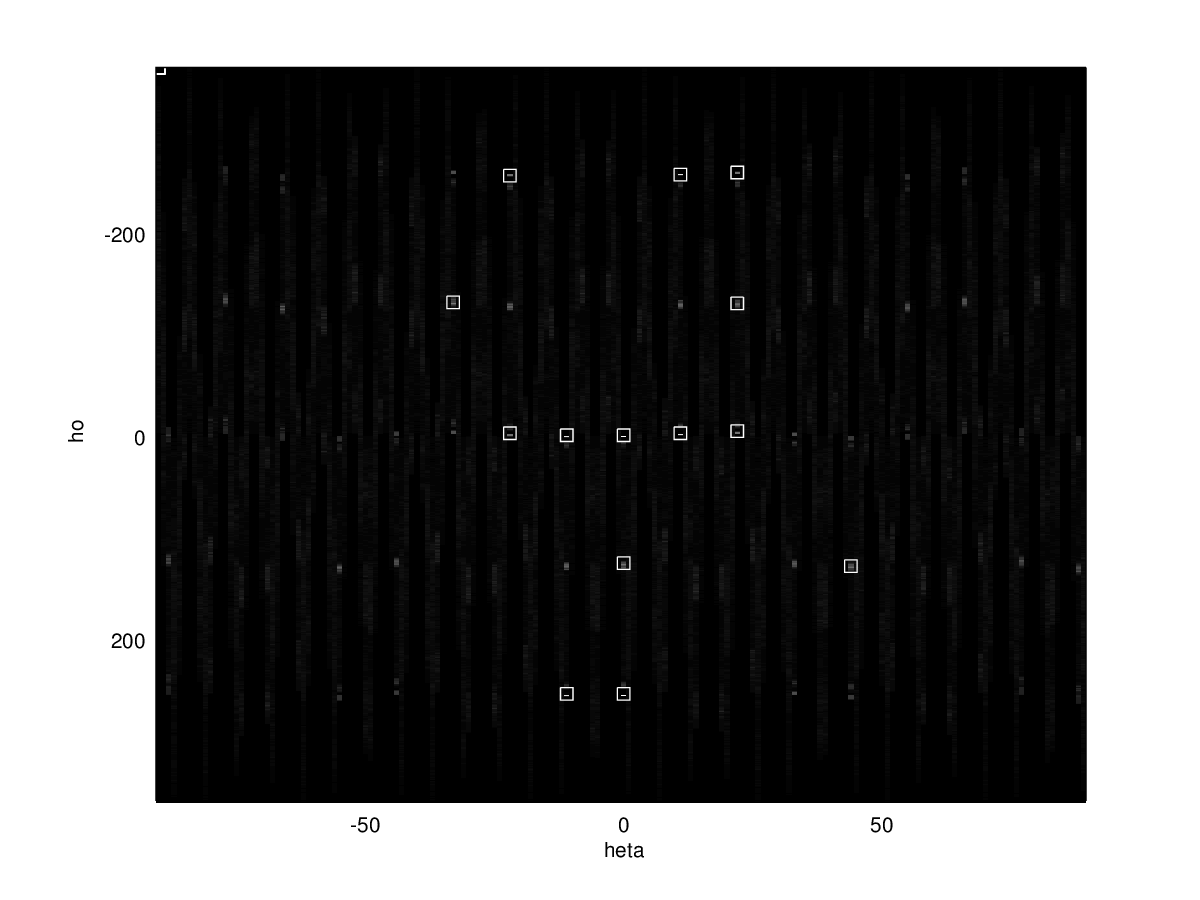
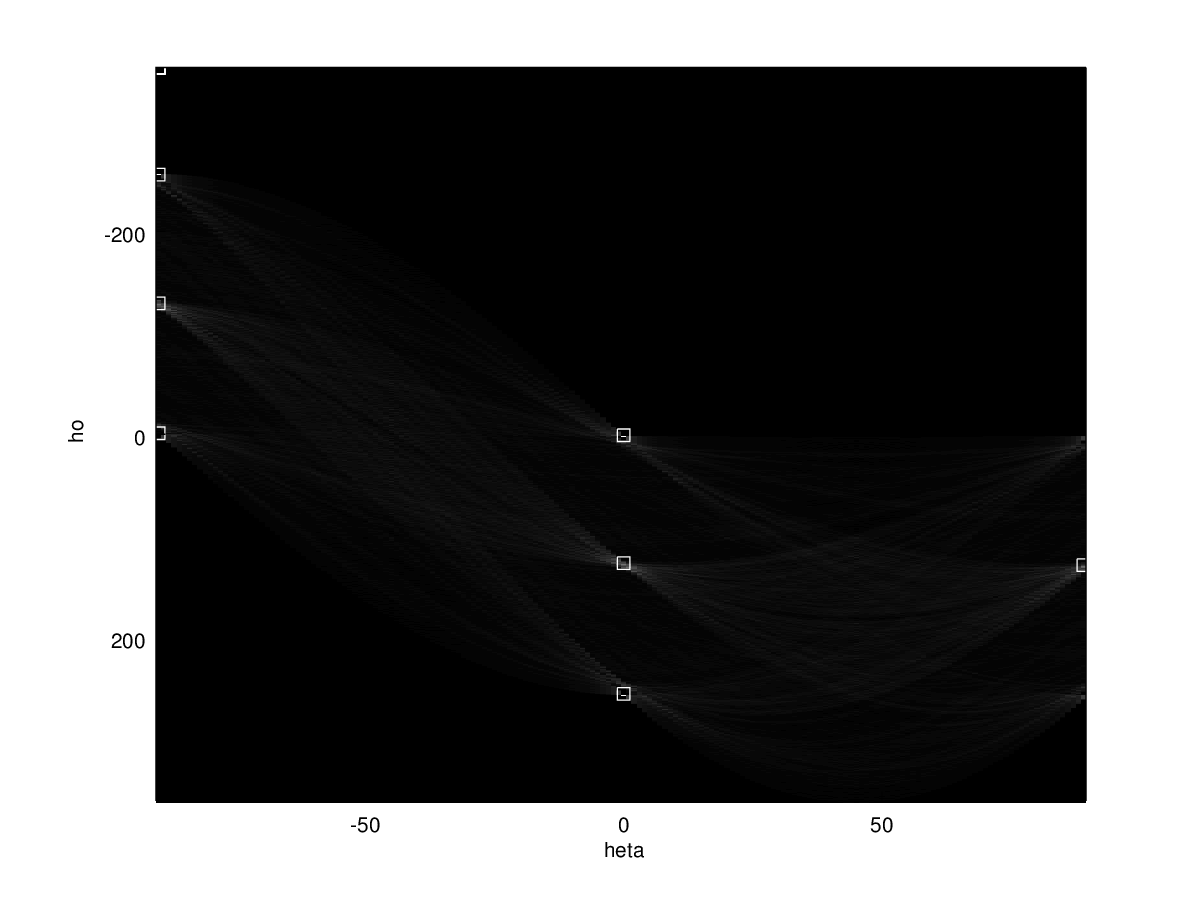
update the line acc, circle acc

diff --git a/georgiatech_cs4495/ps1_octave/ps1.m b/georgiatech_cs4495/ps1_octave/ps1.m
@@ -26,8 +26,9 @@ xlabel('\theta'), ylabel('\rho');
 axis on, axis normal, hold on;
 colormap(gca, hot);
 
+
 %% 2-b
-peaks = hough_peaks(H, 15);  % defined in hough_peaks.m
+peaks = hough_peaks(H, 20);  % defined in hough_peaks.m
 %% TODO: Highlight peak locations on accumulator array, 
 % save as output/ps1-2-b-1.png
 figure;
@@ -108,6 +109,7 @@ print('output/ps1-4-c-1.png');
 hough_lines_draw(img_mono, 'output/ps1-4-c-2.png', peaks, rho, theta);
 %}
 
+%{
 img = imread('input/ps1-input1.png');
 figure, imshow(img);
 
@@ -125,7 +127,7 @@ img_edges = edge(img_smoothed, 'canny', 6);
 figure, imshow(img_edges);
 imwrite(img_edges, 'output/ps1-5-a-2.png');
 
-%{
+
 H = hough_circles_acc(img_edges, 20);
 centers = hough_peaks(H, 10);
 figure;
@@ -134,8 +136,10 @@ xlabel('a'), ylabel('b');
 axis on, axis normal, hold on;
 plot(centers(:, 2), centers(:, 1), 's', 'color', 'green');
 
+
 figure, imshow(img_mono);
-theta = -90 : 89;
+theta = 0 : 359;
+theta = theta / 180 * pi;
 radius = 20;
 for i = 1 : size(centers, 1)
     a = centers(i, 1);
@@ -146,14 +150,12 @@ for i = 1 : size(centers, 1)
     hold on; plot(y, x, 'color', 'green');
 end
 print('output/ps1-5-a-3.png');
-%}
 
 
-[centers, radii] = find_circles(img_edges, [15 50]);
-
+[centers, radii] = find_circles(img_edges, [20 30]);
 figure, imshow(img_mono);
-theta = 0 : 45;
-
+theta = 0 : 359;
+theta = theta / 180 * pi;
 for i = 1 : length(radii)
     radius = radii(i);
     a = centers(i, 1);
@@ -164,3 +166,28 @@ for i = 1 : length(radii)
     hold on; plot(y, x, 'color', 'green');
 end
 print('output/ps1-5-b-1.png');
+%}
+
+
+img = imread('input/ps1-input2.png');
+img_mono = rgb2gray(img);
+figure, imshow(img_mono);
+
+gauss_f = fspecial('gaussian', 9, 3);
+img_smoothed = imfilter(img_mono, gauss_f, 'symmetric');
+figure, imshow(img_smoothed);
+
+img_edges = edge(img_smoothed, 'canny');
+figure, imshow(img_edges);
+
+
+[H, theta, rho] = hough_lines_acc(img_edges);
+peaks = hough_peaks(H, 20, 'Threshold', 0.3 * max(H(:)));
+figure;
+imshow(H, [], 'XData', theta, 'YData', rho, 'InitialMagnification', 'fit');
+xlabel('\theta'), ylabel('\rho');
+axis on, axis normal, hold on;
+plot(theta(peaks(:, 2)), rho(peaks(:, 1)), 's', 'color', 'green');
+
+hough_lines_draw(img_smoothed, 'output/ps1-6-a-1.png', peaks, rho, theta);
+

diff --git a/georgiatech_cs4495/ps1_octave/hough_lines_acc.m b/georgiatech_cs4495/ps1_octave/hough_lines_acc.m
@@ -22,29 +22,33 @@ function [H, theta, rho] = hough_lines_acc(BW, varargin)
 
     rhoStep = p.Results.RhoResolution;
     theta = p.Results.Theta;
+    
+    theta_radian = theta / 180 * pi;
 
     %% TODO: Your code here
     [h, w] = size(BW); 
     
     D = sqrt((h - 1) ^ 2 + (w - 1) ^ 2);
-    % nrho = 2 * (ceil(D / rhoStep));
     diagonal = rhoStep * ceil(D / rhoStep);
     rho = -diagonal : rhoStep : diagonal;
-    % ntheta = length(theta);
     H = zeros(length(rho), length(theta));
     
     for i = 1 : h
         for j = 1 : w
             if(BW(i, j) == 1)
                 for cur_theta_index = 1 : 180
-                    cur_theta = theta(cur_theta_index);
+                    cur_theta = theta_radian(cur_theta_index);
                     cur_rho = j * cos(cur_theta) + i * sin(cur_theta);
-                    cur_rho_index = find(abs(rho - cur_rho) < rhoStep)(1);
+                    cur_rho_index = find(abs(rho - cur_rho) < rhoStep);
+                    if(length(cur_rho_index) == 0)
+                        continue;
+                    else
+                        cur_rho_index = cur_rho_index(1);
+                    end
                     H(cur_rho_index, cur_theta_index) = H(cur_rho_index, ...
                         cur_theta_index) + 1;
                 end
             end
-            
         end  
     end
     

diff --git a/georgiatech_cs4495/ps1_octave/find_circles.m b/georgiatech_cs4495/ps1_octave/find_circles.m
@@ -7,6 +7,7 @@ function [centers, radii] = find_circles(BW, radius_range)
     % TODO: Your code here
     centers = [];
     radii = [];
+    H_sum = [];
     
     r = radius_range(1) : radius_range(2);
     H = cell(length(r), 1);
@@ -15,20 +16,17 @@ function [centers, radii] = find_circles(BW, radius_range)
     for i = 1 : length(r)
         H{i} = hough_circles_acc(BW, r(i));
         P{i} = hough_peaks(H{i}, 10);
+        H_sum(P{i}(:, 1), P{i}(:, 2)) = H{i}(P{i}(:, 1), P{i}(:, 2));
     end
     
-    for num = 1 : 30
-        for j = 1 : 10
-            for i = 1 : length(r)
-                m(i, j) = H{i}(P{i}(j, 1), P{i}(j, 2));
+    centers = hough_peaks(H_sum, 14);
+    for i = 1 : 14
+        for j = 1 : length(r)
+            if(find(P{j} == centers(i)))
+                radii(i) = r(j);
+                break;
             end
         end
-        
-        [row, col] = find(m == max(m(:)));
-        row = row(1); col = col(1);
-        
-        radii = [radii; r(row)];
-        centers = [centers; P{row}(col, :)];
-        H{row}(P{row}(col, 1), P{row}(col, 2)) = 0;
     end
+    
 endfunction

diff --git a/georgiatech_cs4495/ps1_octave/hough_lines_draw.m b/georgiatech_cs4495/ps1_octave/hough_lines_draw.m
@@ -11,16 +11,23 @@ function hough_lines_draw(img, outfile, peaks, rho, theta)
     % TODO: Your code here
     figure; 
     imshow(img);
-    x = 1 : size(img, 2);
+    
+    theta = theta / 180 * pi;
     
     for i = 1 : size(peaks, 1)
         peak = peaks(i, :);
         cur_rho = rho(peak(1));
         cur_theta = theta(peak(2));
+        
+        if(cur_theta == 0)
+            x = cur_rho;
+            y = 1 : size(img, 1);
+        else
+            x = 1 : size(img, 2);
+            y = (cur_rho - x * cos(cur_theta)) / sin(cur_theta);
+        end
        
-        y = (cur_rho - x * cos(cur_theta)) / sin(cur_theta);
-       
-        hold on; plot(x, y, 'color', 'green'); 
+        hold on; plot(x, y, 'color', 'green', 'MarkerSize', 2); 
     end
     
     print(outfile);

diff --git a/georgiatech_cs4495/ps1_octave/hough_circles_acc.m b/georgiatech_cs4495/ps1_octave/hough_circles_acc.m
@@ -7,10 +7,11 @@ function H = hough_circles_acc(BW, radius)
     % TODO: Your code here
     
     [h, w] = size(BW);
-    theta = 0 : 45;
+    theta = 0 : 359;
     nradius = length(radius);
     ntheta = length(theta);
     [r, c] = find(BW == 1);
+    theta = theta / 180 * pi;
     
     H = zeros(w, h);
     
